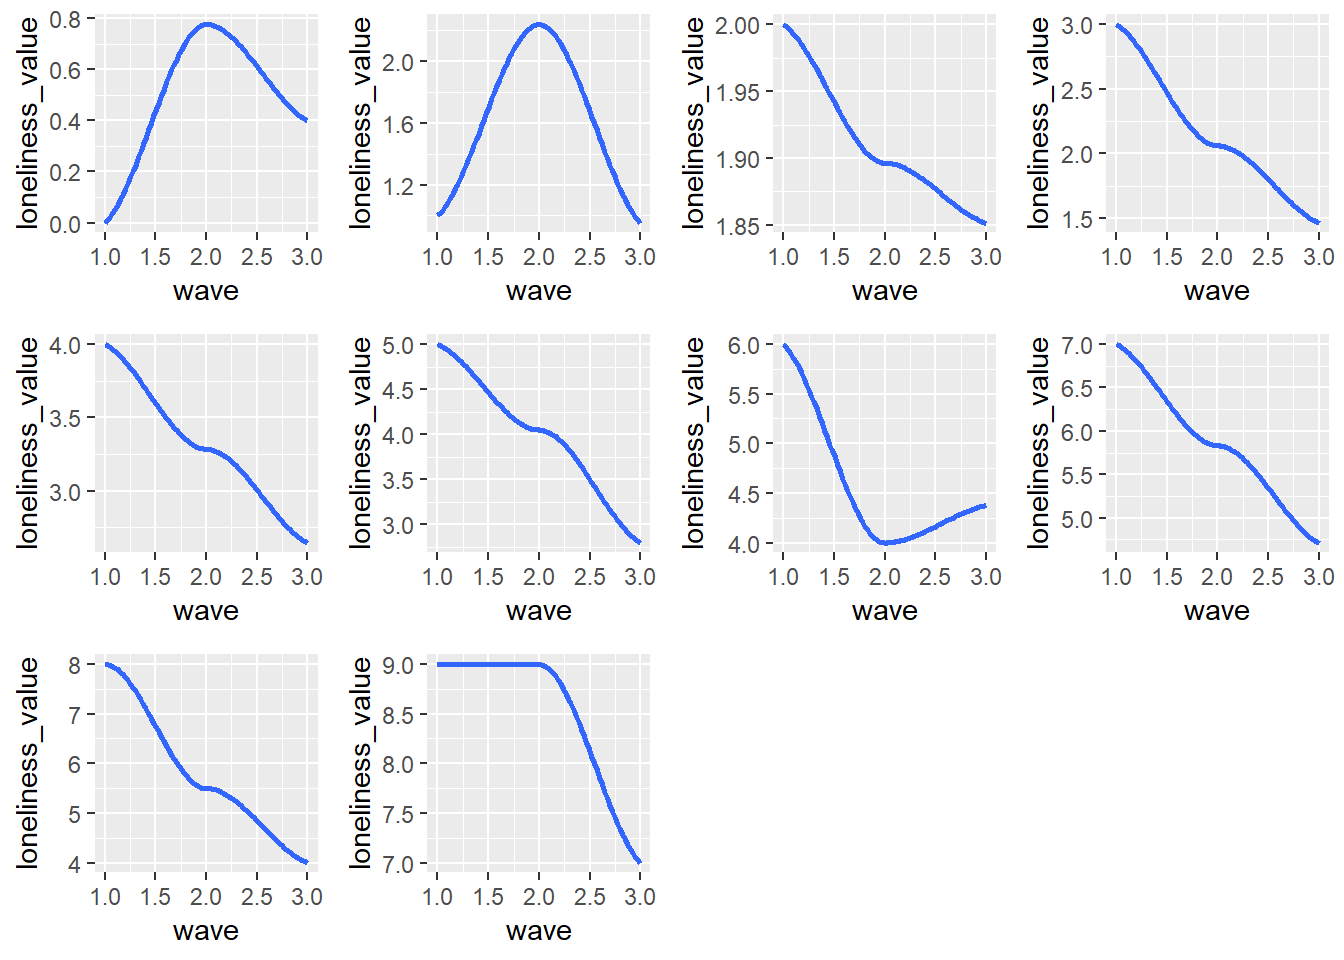
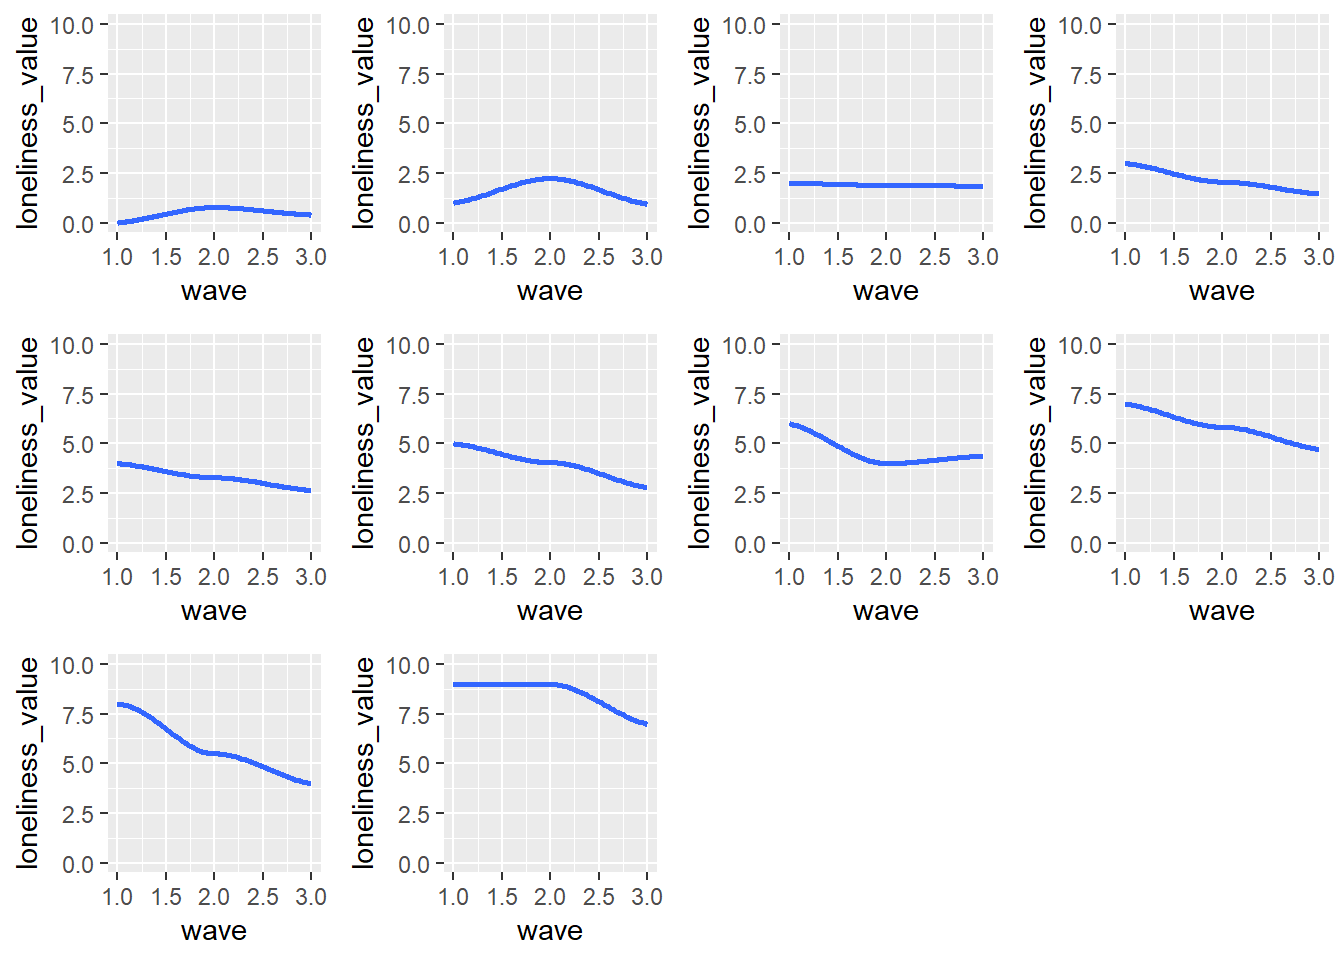
changed axes on graph 3

diff --git a/draft.html b/draft.html
@@ -377,7 +377,8 @@ baseline_loneliness_0 = wave_1_data %&gt;%
 
 baseline_0 = baseline_loneliness_0 %&gt;% 
   ggplot(aes(x = wave, y = loneliness_value)) +
-    geom_smooth(se = FALSE)
+    geom_smooth(se = FALSE) + 
+    ylim(0,10)
 
 ### Baseline 1
 
@@ -397,7 +398,8 @@ baseline_loneliness_1 = wave_1_data %&gt;%
 
 baseline_1 = baseline_loneliness_1 %&gt;% 
   ggplot(aes(x = wave, y = loneliness_value)) +
-    geom_smooth(se = FALSE)
+    geom_smooth(se = FALSE) +
+    ylim(0,10)
 
 ### Baseline 2
 
@@ -417,7 +419,8 @@ baseline_loneliness_2 = wave_1_data %&gt;%
 
 baseline_2 = baseline_loneliness_2 %&gt;% 
   ggplot(aes(x = wave, y = loneliness_value)) +
-    geom_smooth(se = FALSE)
+    geom_smooth(se = FALSE) +
+    ylim(0,10)
 
 ### Baseline 3
 
@@ -438,7 +441,8 @@ baseline_loneliness_3 = wave_1_data %&gt;%
 
 baseline_3 = baseline_loneliness_3 %&gt;% 
   ggplot(aes(x = wave, y = loneliness_value)) +
-    geom_smooth(se = FALSE)
+    geom_smooth(se = FALSE) +
+    ylim(0,10)
 
 ### Baseline 4
 
@@ -458,7 +462,8 @@ baseline_loneliness_4 = wave_1_data %&gt;%
 
 baseline_4 = baseline_loneliness_4 %&gt;% 
   ggplot(aes(x = wave, y = loneliness_value)) +
-    geom_smooth(se = FALSE)
+    geom_smooth(se = FALSE) +
+    ylim(0,10)
 
 
 ### Baseline 5
@@ -479,7 +484,8 @@ baseline_loneliness_5 = wave_1_data %&gt;%
 
 baseline_5 = baseline_loneliness_5 %&gt;% 
   ggplot(aes(x = wave, y = loneliness_value)) +
-    geom_smooth(se = FALSE)
+    geom_smooth(se = FALSE) +
+    ylim(0,10)
 
 ### Baseline 6
 
@@ -499,7 +505,8 @@ baseline_loneliness_6 = wave_1_data %&gt;%
 
 baseline_6 = baseline_loneliness_6 %&gt;% 
   ggplot(aes(x = wave, y = loneliness_value)) +
-    geom_smooth(se = FALSE)
+    geom_smooth(se = FALSE) +
+    ylim(0,10)
 
 ### Baseline 7
 
@@ -519,7 +526,8 @@ baseline_loneliness_7 = wave_1_data %&gt;%
 
 baseline_7 = baseline_loneliness_7 %&gt;% 
   ggplot(aes(x = wave, y = loneliness_value)) +
-    geom_smooth(se = FALSE)
+    geom_smooth(se = FALSE) +
+    ylim(0,10)
 
 ### Baseline 8
 
@@ -539,7 +547,8 @@ baseline_loneliness_8 = wave_1_data %&gt;%
 
 baseline_8 = baseline_loneliness_8 %&gt;% 
   ggplot(aes(x = wave, y = loneliness_value)) +
-    geom_smooth(se = FALSE)
+    geom_smooth(se = FALSE) +
+    ylim(0,10)
 
 ### Baseline 9
 
@@ -559,7 +568,8 @@ baseline_loneliness_9 = wave_1_data %&gt;%
 
 baseline_9 = baseline_loneliness_9 %&gt;% 
   ggplot(aes(x = wave, y = loneliness_value)) +
-    geom_smooth(se = FALSE)
+    geom_smooth(se = FALSE) +
+    ylim(0,10)
 
 ### Baseline 10
 
@@ -579,7 +589,8 @@ baseline_loneliness_10 = wave_1_data %&gt;%
 
 baseline_10 = baseline_loneliness_10 %&gt;% 
   ggplot(aes(x = wave, y = loneliness_value)) +
-    geom_smooth(se = FALSE)
+    geom_smooth(se = FALSE) +
+    ylim(0,10)
 
 (baseline_0 + baseline_1 + baseline_2 + baseline_3 + baseline_4 + baseline_5 + baseline_6 + baseline_7 + baseline_8 + baseline_9)</code></pre>
 <pre><code>## `geom_smooth()` using method = &#39;loess&#39; and formula &#39;y ~ x&#39;</code></pre>
